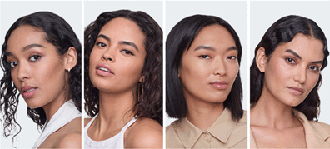
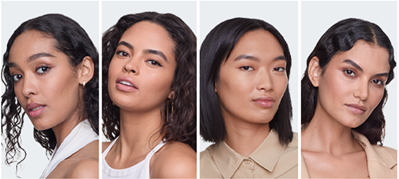
improve quality of faces photos

diff --git a/styles/style.css b/styles/style.css
@@ -629,6 +629,10 @@
 #es-loreal.es-loreal .es-faces__single {
   position: relative;
   width: 330px;
+
+}
+#es-loreal.es-loreal .es-faces__single img {
+  width: 100%;
 }
 
 #es-loreal.es-loreal .es-faces__title {
